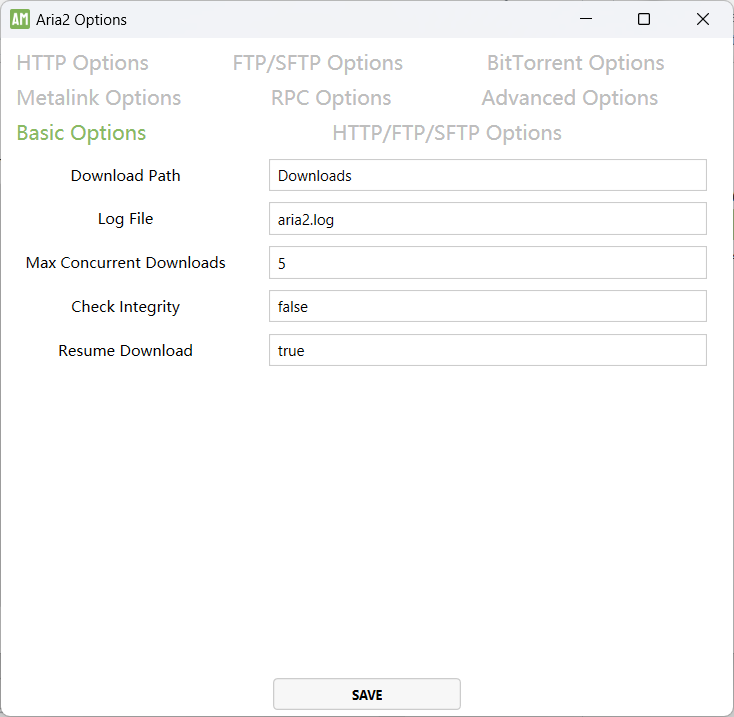
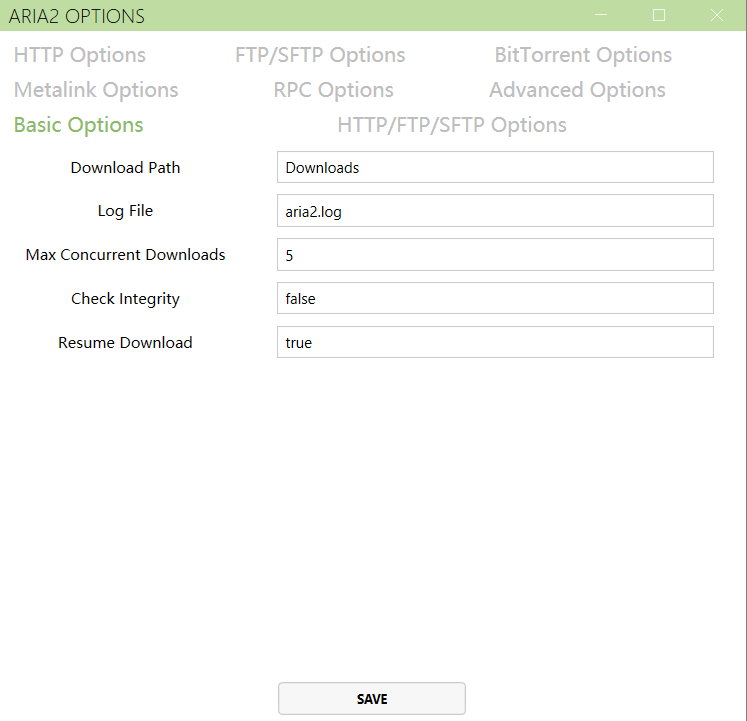
update ui

diff --git a/Aria2Manager/Views/MainWindow.xaml b/Aria2Manager/Views/MainWindow.xaml
@@ -1,17 +1,21 @@
-<Window x:Name="mainwindow" x:Class="Aria2Manager.MainWindow"
+<mah:MetroWindow x:Name="mainwindow" x:Class="Aria2Manager.MainWindow"
         xmlns="http://schemas.microsoft.com/winfx/2006/xaml/presentation"
         xmlns:x="http://schemas.microsoft.com/winfx/2006/xaml"
         xmlns:d="http://schemas.microsoft.com/expression/blend/2008"
         xmlns:mc="http://schemas.openxmlformats.org/markup-compatibility/2006"
         xmlns:i="http://schemas.microsoft.com/xaml/behaviors"
         mc:Ignorable="d"
+        xmlns:mah="clr-namespace:MahApps.Metro.Controls;assembly=MahApps.Metro"
+        TitleBarHeight="25"
+        TitleForeground="{DynamicResource MahApps.Brushes.ThemeForeground}"
+        WindowTitleBrush="{DynamicResource MahApps.Brushes.Accent3}"
+        ShowIconOnTitleBar="False"
         Title="Aria2Manager" Height="480" Width="900" Icon="/Resources/app.ico" WindowStartupLocation="CenterScreen" Closed="mainwindow_Closed">
     <i:Interaction.Triggers>
         <i:EventTrigger EventName="Closing">
             <i:InvokeCommandAction Command="{Binding OnCloseWindowCommand}"/>
         </i:EventTrigger>
     </i:Interaction.Triggers>
-
     <DockPanel>
         <Menu DockPanel.Dock="Top" Height="30">
             <MenuItem Header="{DynamicResource Edit}">
@@ -152,7 +156,7 @@
                 </Button>
             </ToolBar>
         </ToolBarTray>
-        <StatusBar DockPanel.Dock="Bottom">
+        <StatusBar DockPanel.Dock="Bottom" Background="{DynamicResource MahApps.Brushes.Gray10}">
             <StatusBarItem x:Name="ServerInfo" Height="37" VerticalAlignment="Center" HorizontalAlignment="Left">
                 <StackPanel Orientation="Horizontal">
                     <ComboBox ItemsSource="{Binding ServerNames}" SelectedItem="{Binding CurrentServerName}" Margin="2,0,2,0"/>
@@ -278,4 +282,4 @@
             </ListBox>
         </Grid>
     </DockPanel>
-</Window>
+</mah:MetroWindow>

diff --git a/Aria2Manager/Views/GlobalOptionsWindow.xaml b/Aria2Manager/Views/GlobalOptionsWindow.xaml
@@ -1,10 +1,14 @@
-<Window x:Name="Aria2OptionsWindow" x:Class="Aria2Manager.Views.GlobalOptionsWindow"
+<mah:MetroWindow x:Name="Aria2OptionsWindow" x:Class="Aria2Manager.Views.GlobalOptionsWindow"
         xmlns="http://schemas.microsoft.com/winfx/2006/xaml/presentation"
         xmlns:x="http://schemas.microsoft.com/winfx/2006/xaml"
         xmlns:d="http://schemas.microsoft.com/expression/blend/2008"
         xmlns:mc="http://schemas.openxmlformats.org/markup-compatibility/2006"
         mc:Ignorable="d"
         xmlns:i="http://schemas.microsoft.com/xaml/behaviors"
+        xmlns:mah="clr-namespace:MahApps.Metro.Controls;assembly=MahApps.Metro"
+        TitleBarHeight="25"
+        TitleForeground="{DynamicResource MahApps.Brushes.ThemeForeground}"
+        WindowTitleBrush="{DynamicResource MahApps.Brushes.Accent3}"
         Title="{DynamicResource Aria2Options}" Height="580" Width="600" WindowStartupLocation="CenterOwner">
     <Window.Resources>
         <!--ListViewItem关闭选中样式-->
@@ -96,4 +100,4 @@
                 HorizontalAlignment="Center" VerticalAlignment="Center" Command="{Binding SetOptionsCommand}"
                 CommandParameter="{Binding ElementName=Aria2OptionsWindow}" Margin="0,0,0,0"/>
     </Grid>
-</Window>
+</mah:MetroWindow>

diff --git a/Aria2Manager/Views/SettingsWindow.xaml b/Aria2Manager/Views/SettingsWindow.xaml
@@ -1,9 +1,13 @@
-<Window x:Class="Aria2Manager.Views.SettingsWindow"
+<mah:MetroWindow x:Class="Aria2Manager.Views.SettingsWindow"
         xmlns="http://schemas.microsoft.com/winfx/2006/xaml/presentation"
         xmlns:x="http://schemas.microsoft.com/winfx/2006/xaml"
         xmlns:d="http://schemas.microsoft.com/expression/blend/2008"
         xmlns:mc="http://schemas.openxmlformats.org/markup-compatibility/2006"
         mc:Ignorable="d"
+        xmlns:mah="clr-namespace:MahApps.Metro.Controls;assembly=MahApps.Metro"
+        TitleBarHeight="25"
+        TitleForeground="{DynamicResource MahApps.Brushes.ThemeForeground}"
+        WindowTitleBrush="{DynamicResource MahApps.Brushes.Accent3}"
         Title="{DynamicResource ProgramSettings}" Height="200" Width="600" WindowStartupLocation="CenterOwner">
     <Grid>
         <Grid.RowDefinitions>
@@ -67,4 +71,4 @@
         </Grid>
         <Button Content="{DynamicResource Save}" HorizontalAlignment="Center" Grid.Row="4" VerticalAlignment="Center" Width="76" Command="{Binding SaveSettingsCommand}" CommandParameter="{Binding RelativeSource={RelativeSource self}}"/>
     </Grid>
-</Window>
+</mah:MetroWindow>

diff --git a/Aria2Manager/Views/ItemInfoWindow.xaml b/Aria2Manager/Views/ItemInfoWindow.xaml
@@ -1,10 +1,14 @@
-<Window x:Class="Aria2Manager.Views.ItemInfoWindow"
+<mah:MetroWindow x:Class="Aria2Manager.Views.ItemInfoWindow"
         xmlns="http://schemas.microsoft.com/winfx/2006/xaml/presentation"
         xmlns:x="http://schemas.microsoft.com/winfx/2006/xaml"
         xmlns:d="http://schemas.microsoft.com/expression/blend/2008"
         xmlns:mc="http://schemas.openxmlformats.org/markup-compatibility/2006"
         xmlns:i="http://schemas.microsoft.com/xaml/behaviors"
         mc:Ignorable="d"
+        xmlns:mah="clr-namespace:MahApps.Metro.Controls;assembly=MahApps.Metro"
+        TitleBarHeight="25"
+        TitleForeground="{DynamicResource MahApps.Brushes.ThemeForeground}"
+        WindowTitleBrush="{DynamicResource MahApps.Brushes.Accent3}"
         Title="{DynamicResource Properties}" Height="350" Width="600" WindowStartupLocation="CenterOwner">
     <TabControl>
         <TabItem Header="{DynamicResource OverView}">
@@ -70,4 +74,4 @@
             </ListBox>
         </TabItem>
     </TabControl>
-</Window>
+</mah:MetroWindow>

diff --git a/Aria2Manager/Views/AddNewItemWindow.xaml b/Aria2Manager/Views/AddNewItemWindow.xaml
@@ -1,9 +1,13 @@
-<Window x:Name="AddDownloadWindow" x:Class="Aria2Manager.Views.AddNewItemWindow"
+<mah:MetroWindow x:Name="AddDownloadWindow" x:Class="Aria2Manager.Views.AddNewItemWindow"
         xmlns="http://schemas.microsoft.com/winfx/2006/xaml/presentation"
         xmlns:x="http://schemas.microsoft.com/winfx/2006/xaml"
         xmlns:d="http://schemas.microsoft.com/expression/blend/2008"
         xmlns:mc="http://schemas.openxmlformats.org/markup-compatibility/2006"
         mc:Ignorable="d"
+        xmlns:mah="clr-namespace:MahApps.Metro.Controls;assembly=MahApps.Metro"
+        TitleBarHeight="25"
+        TitleForeground="{DynamicResource MahApps.Brushes.ThemeForeground}"
+        WindowTitleBrush="{DynamicResource MahApps.Brushes.Accent3}"
         Title="{DynamicResource AddDownload}" Height="350" Width="600" WindowStartupLocation="CenterOwner">
     <TabControl>
         <TabControl.Resources>
@@ -196,4 +200,4 @@
             </Grid>
         </TabItem>
     </TabControl>
-</Window>
+</mah:MetroWindow>

diff --git a/Aria2Manager/Views/ManageServersWindow.xaml b/Aria2Manager/Views/ManageServersWindow.xaml
@@ -1,9 +1,13 @@
-<Window x:Class="Aria2Manager.Views.ManageServersWindow"
+<mah:MetroWindow x:Class="Aria2Manager.Views.ManageServersWindow"
         xmlns="http://schemas.microsoft.com/winfx/2006/xaml/presentation"
         xmlns:x="http://schemas.microsoft.com/winfx/2006/xaml"
         xmlns:d="http://schemas.microsoft.com/expression/blend/2008"
         xmlns:mc="http://schemas.openxmlformats.org/markup-compatibility/2006"
         mc:Ignorable="d"
+        xmlns:mah="clr-namespace:MahApps.Metro.Controls;assembly=MahApps.Metro"
+        TitleBarHeight="25"
+        TitleForeground="{DynamicResource MahApps.Brushes.ThemeForeground}"
+        WindowTitleBrush="{DynamicResource MahApps.Brushes.Accent3}"
         Title="{DynamicResource ManageServers}" Height="430" Width="260" WindowStartupLocation="CenterOwner">
     <TabControl>
         <TabItem Header="{DynamicResource Settings}">
@@ -108,4 +112,4 @@
             </Grid>
         </TabItem>
     </TabControl>
-</Window>
+</mah:MetroWindow>

diff --git a/Aria2Manager/ViewModels/SettingsViewModel.cs b/Aria2Manager/ViewModels/SettingsViewModel.cs
@@ -58,7 +58,31 @@ namespace Aria2Manager.ViewModels
             {
                 return;
             }
-            Themes = new List<string> { "Light", "Dark" };
+            Themes = new List<string> {
+                "Light.Green", "Dark.Green",
+                "Light.Blue", "Dark.Blue",
+                "Light.Red", "Dark.Red",
+                "Light.Purple", "Dark.Purple",
+                "Light.Orange", "Dark.Orange",
+                "Light.Lime", "Dark.Lime",
+                "Light.Emerald", "Dark.Emerald",
+                "Light.Teal", "Dark.Teal",
+                "Light.Cyan", "Dark.Cyan",
+                "Light.Cobalt", "Dark.Cobalt",
+                "Light.Indigo", "Dark.Indigo",
+                "Light.Violet", "Dark.Violet",
+                "Light.Pink", "Dark.Pink",
+                "Light.Magenta", "Dark.Magenta",
+                "Light.Crimson", "Dark.Crimson",
+                "Light.Amber", "Dark.Amber",
+                "Light.Yellow", "Dark.Yellow",
+                "Light.Brown", "Dark.Brown",
+                "Light.Olive", "Dark.Olive",
+                "Light.Steel", "Dark.Steel",
+                "Light.Mauve", "Dark.Mauve",
+                "Light.Taupe", "Dark.Taupe",
+                "Light.Sienna", "Dark.Sienna"
+            };
             foreach (XmlNode node in settings.ChildNodes)
             {
                 switch(node.Name)
@@ -141,7 +165,7 @@ namespace Aria2Manager.ViewModels
                 }
                 Node = doc.SelectSingleNode("/Settings/Theme");
                 Node.InnerText = SelectedTheme;
-                Application.Current.Resources.MergedDictionaries[3].Source = new Uri($"pack://application:,,,/MahApps.Metro;component/Styles/Themes/{SelectedTheme}.Green.xaml", UriKind.Absolute); 
+                Application.Current.Resources.MergedDictionaries[3].Source = new Uri($"pack://application:,,,/MahApps.Metro;component/Styles/Themes/{SelectedTheme}.xaml", UriKind.Absolute); 
                 Node = doc.SelectSingleNode("/Settings/StartMin");
                 Node.InnerText = StartMin.ToString();
                 Node = doc.SelectSingleNode("/Settings/CloseToExit");

diff --git a/Aria2Manager/App.xaml.cs b/Aria2Manager/App.xaml.cs
@@ -81,7 +81,7 @@ namespace Aria2Manager
                         SetLanguageDictionary(node.InnerText);
                         break;
                     case "Theme":
-                        Resources.MergedDictionaries[3].Source = new Uri($"pack://application:,,,/MahApps.Metro;component/Styles/Themes/{node.InnerText}.Green.xaml", UriKind.Absolute);
+                        Resources.MergedDictionaries[3].Source = new Uri($"pack://application:,,,/MahApps.Metro;component/Styles/Themes/{node.InnerText}.xaml", UriKind.Absolute);
                         break;
                     case "StartMin":
                         StartMin = Convert.ToBoolean(node.InnerText);

diff --git a/Aria2Manager/Views/GlobalOptionsWindow.xaml.cs b/Aria2Manager/Views/GlobalOptionsWindow.xaml.cs
@@ -1,5 +1,6 @@
 using Aria2Manager.Models;
 using Aria2Manager.ViewModels;
+using MahApps.Metro.Controls;
 using System.Windows;
 
 namespace Aria2Manager.Views
@@ -7,7 +8,7 @@ namespace Aria2Manager.Views
     /// <summary>
     /// GlobalOptionsWindow.xaml 的交互逻辑
     /// </summary>
-    public partial class GlobalOptionsWindow : Window
+    public partial class GlobalOptionsWindow : MetroWindow
     {
         public GlobalOptionsWindow(Aria2ServerInfoModel? Aria2Server = null)
         {

diff --git a/Aria2Manager/Views/ItemInfoWindow.xaml.cs b/Aria2Manager/Views/ItemInfoWindow.xaml.cs
@@ -1,5 +1,6 @@
 using Aria2Manager.Models;
 using Aria2Manager.ViewModels;
+using MahApps.Metro.Controls;
 using System.Windows;
 
 namespace Aria2Manager.Views
@@ -7,7 +8,7 @@ namespace Aria2Manager.Views
     /// <summary>
     /// ItemInfoWindow.xaml 的交互逻辑
     /// </summary>
-    public partial class ItemInfoWindow : Window
+    public partial class ItemInfoWindow : MetroWindow
     {
         public ItemInfoWindow(string? gid = null, Aria2ServerInfoModel? server = null)
         {

diff --git a/Aria2Manager/Views/MainWindow.xaml.cs b/Aria2Manager/Views/MainWindow.xaml.cs
@@ -6,13 +6,14 @@ using System.Xml;
 using Aria2Manager.Models;
 using Aria2Manager.ViewModels;
 using Aria2Manager.Views;
+using MahApps.Metro.Controls;
 
 namespace Aria2Manager
 {
     /// <summary>
     /// Interaction logic for MainWindow.xaml
     /// </summary>
-    public partial class MainWindow : Window
+    public partial class MainWindow : MetroWindow
     {
         private Aria2ServerInfoModel Aria2Server { get; set; }
         private bool close_to_exit;

diff --git a/Aria2Manager/Views/ManageServersWindow.xaml.cs b/Aria2Manager/Views/ManageServersWindow.xaml.cs
@@ -1,13 +1,14 @@
 using System.Windows;
 using Aria2Manager.Models;
 using Aria2Manager.ViewModels;
+using MahApps.Metro.Controls;
 
 namespace Aria2Manager.Views
 {
     /// <summary>
     /// ManageServersWindow.xaml 的交互逻辑
     /// </summary>
-    public partial class ManageServersWindow : Window
+    public partial class ManageServersWindow : MetroWindow
     {
         public ManageServersWindow(Aria2ServerInfoModel? Aria2Server = null)
         {
